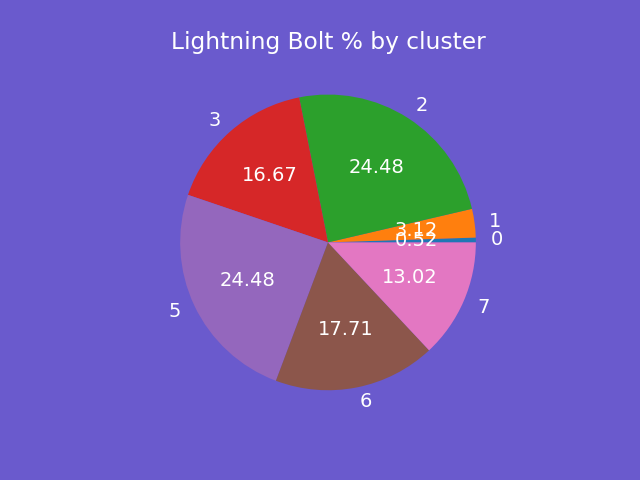
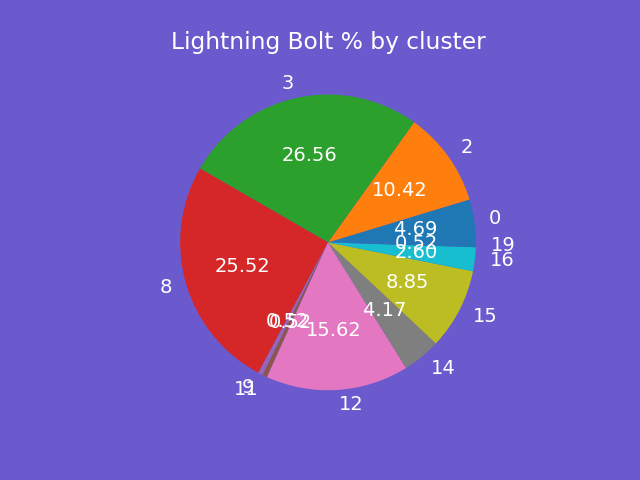
improve handling of vars

Changed region(s): [[0.25, 0.1562, 0.8125, 0.875], [0.7188, 0.2812, 0.75, 0.3125], [0.3125, 0.2188, 0.3438, 0.25]]

diff --git a/metagame.py b/metagame.py
@@ -1,5 +1,4 @@
 import dask_ml.cluster
-import glob
 from matplotlib.pyplot import pie, axis, show
 import math
 import seaborn as sns
@@ -7,12 +6,11 @@ import matplotlib.pyplot as plt
 import json
 
 decks = []
-NUM_CLUSTERS = 8
+NUM_CLUSTERS = 20
 FORMAT = 'modern'
 
 with open('decks_json/decks-' + FORMAT + '.json') as f:
     decks_json = json.load(f)
-    # print(decks_json)
 
 for deck in decks_json:
     try:
@@ -26,11 +24,10 @@ for deck in decks_json:
             decks.append(cards_in_deck)
     except Exception as e:
         print(e)
-print(decks)
 
 
-def card_names(a_deck):
-    return [card[1] for card in a_deck]
+def card_names(_deck):
+    return [card[1] for card in _deck]
 
 
 all_card_names = []
@@ -130,13 +127,15 @@ for card in versatile_cards(30):
     if card not in ['Island', 'Forest', 'Mountain', 'Swamp', 'Plains']:
         print(card)
 
-print("\nCards commonly found with Thoughtseize\n" + str(closest_cards("Thoughtseize", 10)))
+# cards to analyze
+cards_to_analyze = ['Thoughtseize', 'Llanowar Elves', 'Scalding Tarn', 'Serum Visions']
+print("\nCards commonly found with " + cards_to_analyze[0] + "\n" + str(closest_cards(cards_to_analyze[0], 10)))
 
-print("\nCards commonly found with Llanowar Elves\n" + str(closest_cards("Llanowar Elves", 10)))
+print("\nCards commonly found with " + cards_to_analyze[1] + "\n" + str(closest_cards(cards_to_analyze[1], 10)))
 
-print("\nApparition ratio for Scalding Tarn\n" + str(apparition_ratio("Scalding Tarn")))
+print("\nApparition ratio for " + cards_to_analyze[2] + "\n" + str(apparition_ratio(cards_to_analyze[2])))
 
-print("\nApparition ratio for Serum Visions\n" + str(apparition_ratio("Serum Visions")))
+print("\nApparition ratio for " + cards_to_analyze[3] + "\n" + str(apparition_ratio(cards_to_analyze[3])))
 
 # graph data
 plt.rc('font', size=14)
@@ -152,9 +151,11 @@ plt.gca().spines['right'].set_visible(False)
 plt.savefig('graphs/# Decks by Cluster')
 show()
 
+# cards to analyze % by cluster (pie chart)
+card_names = ["Lightning Bolt", "Mutavault", "Path to Exile"]
+
 plt.rcParams['figure.facecolor'] = "slateblue"
 plt.rcParams['text.color'] = "w"
-card_names = ["Lightning Bolt", "Mutavault", "Path to Exile"]
 for card_name in card_names:
     df = apparition_ratio(card_name)[0]
     label_list = list(range(NUM_CLUSTERS))
